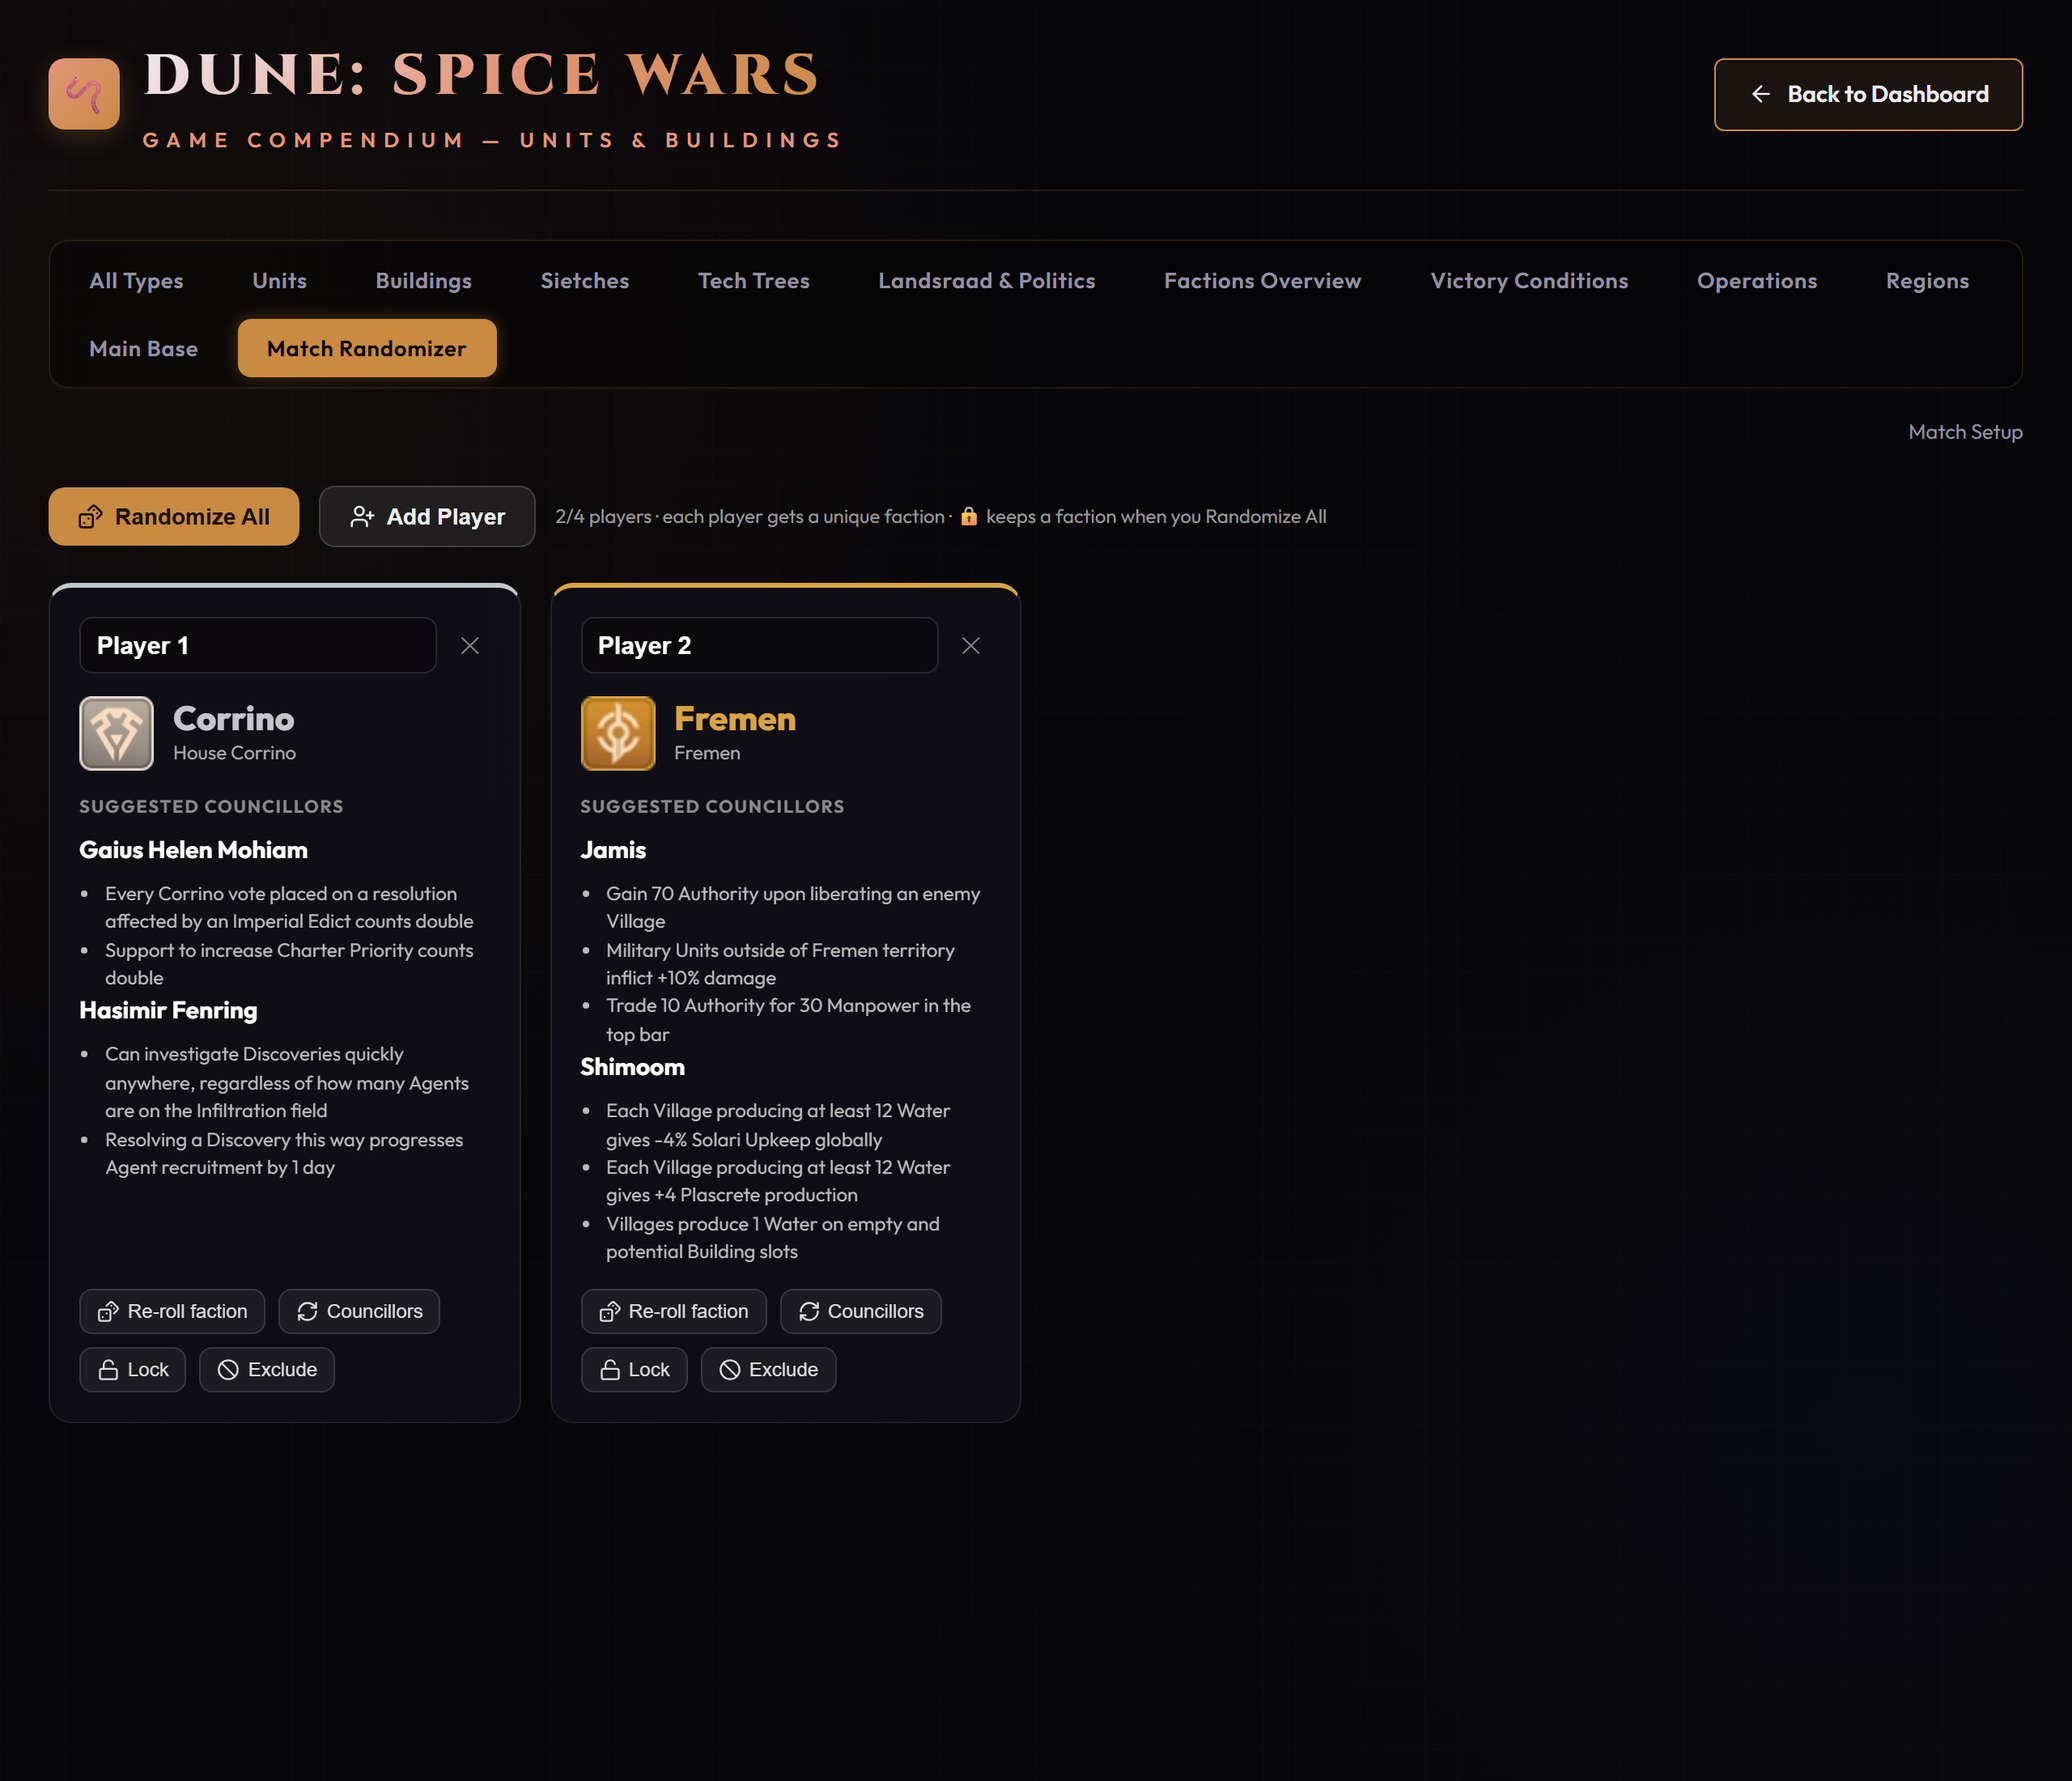
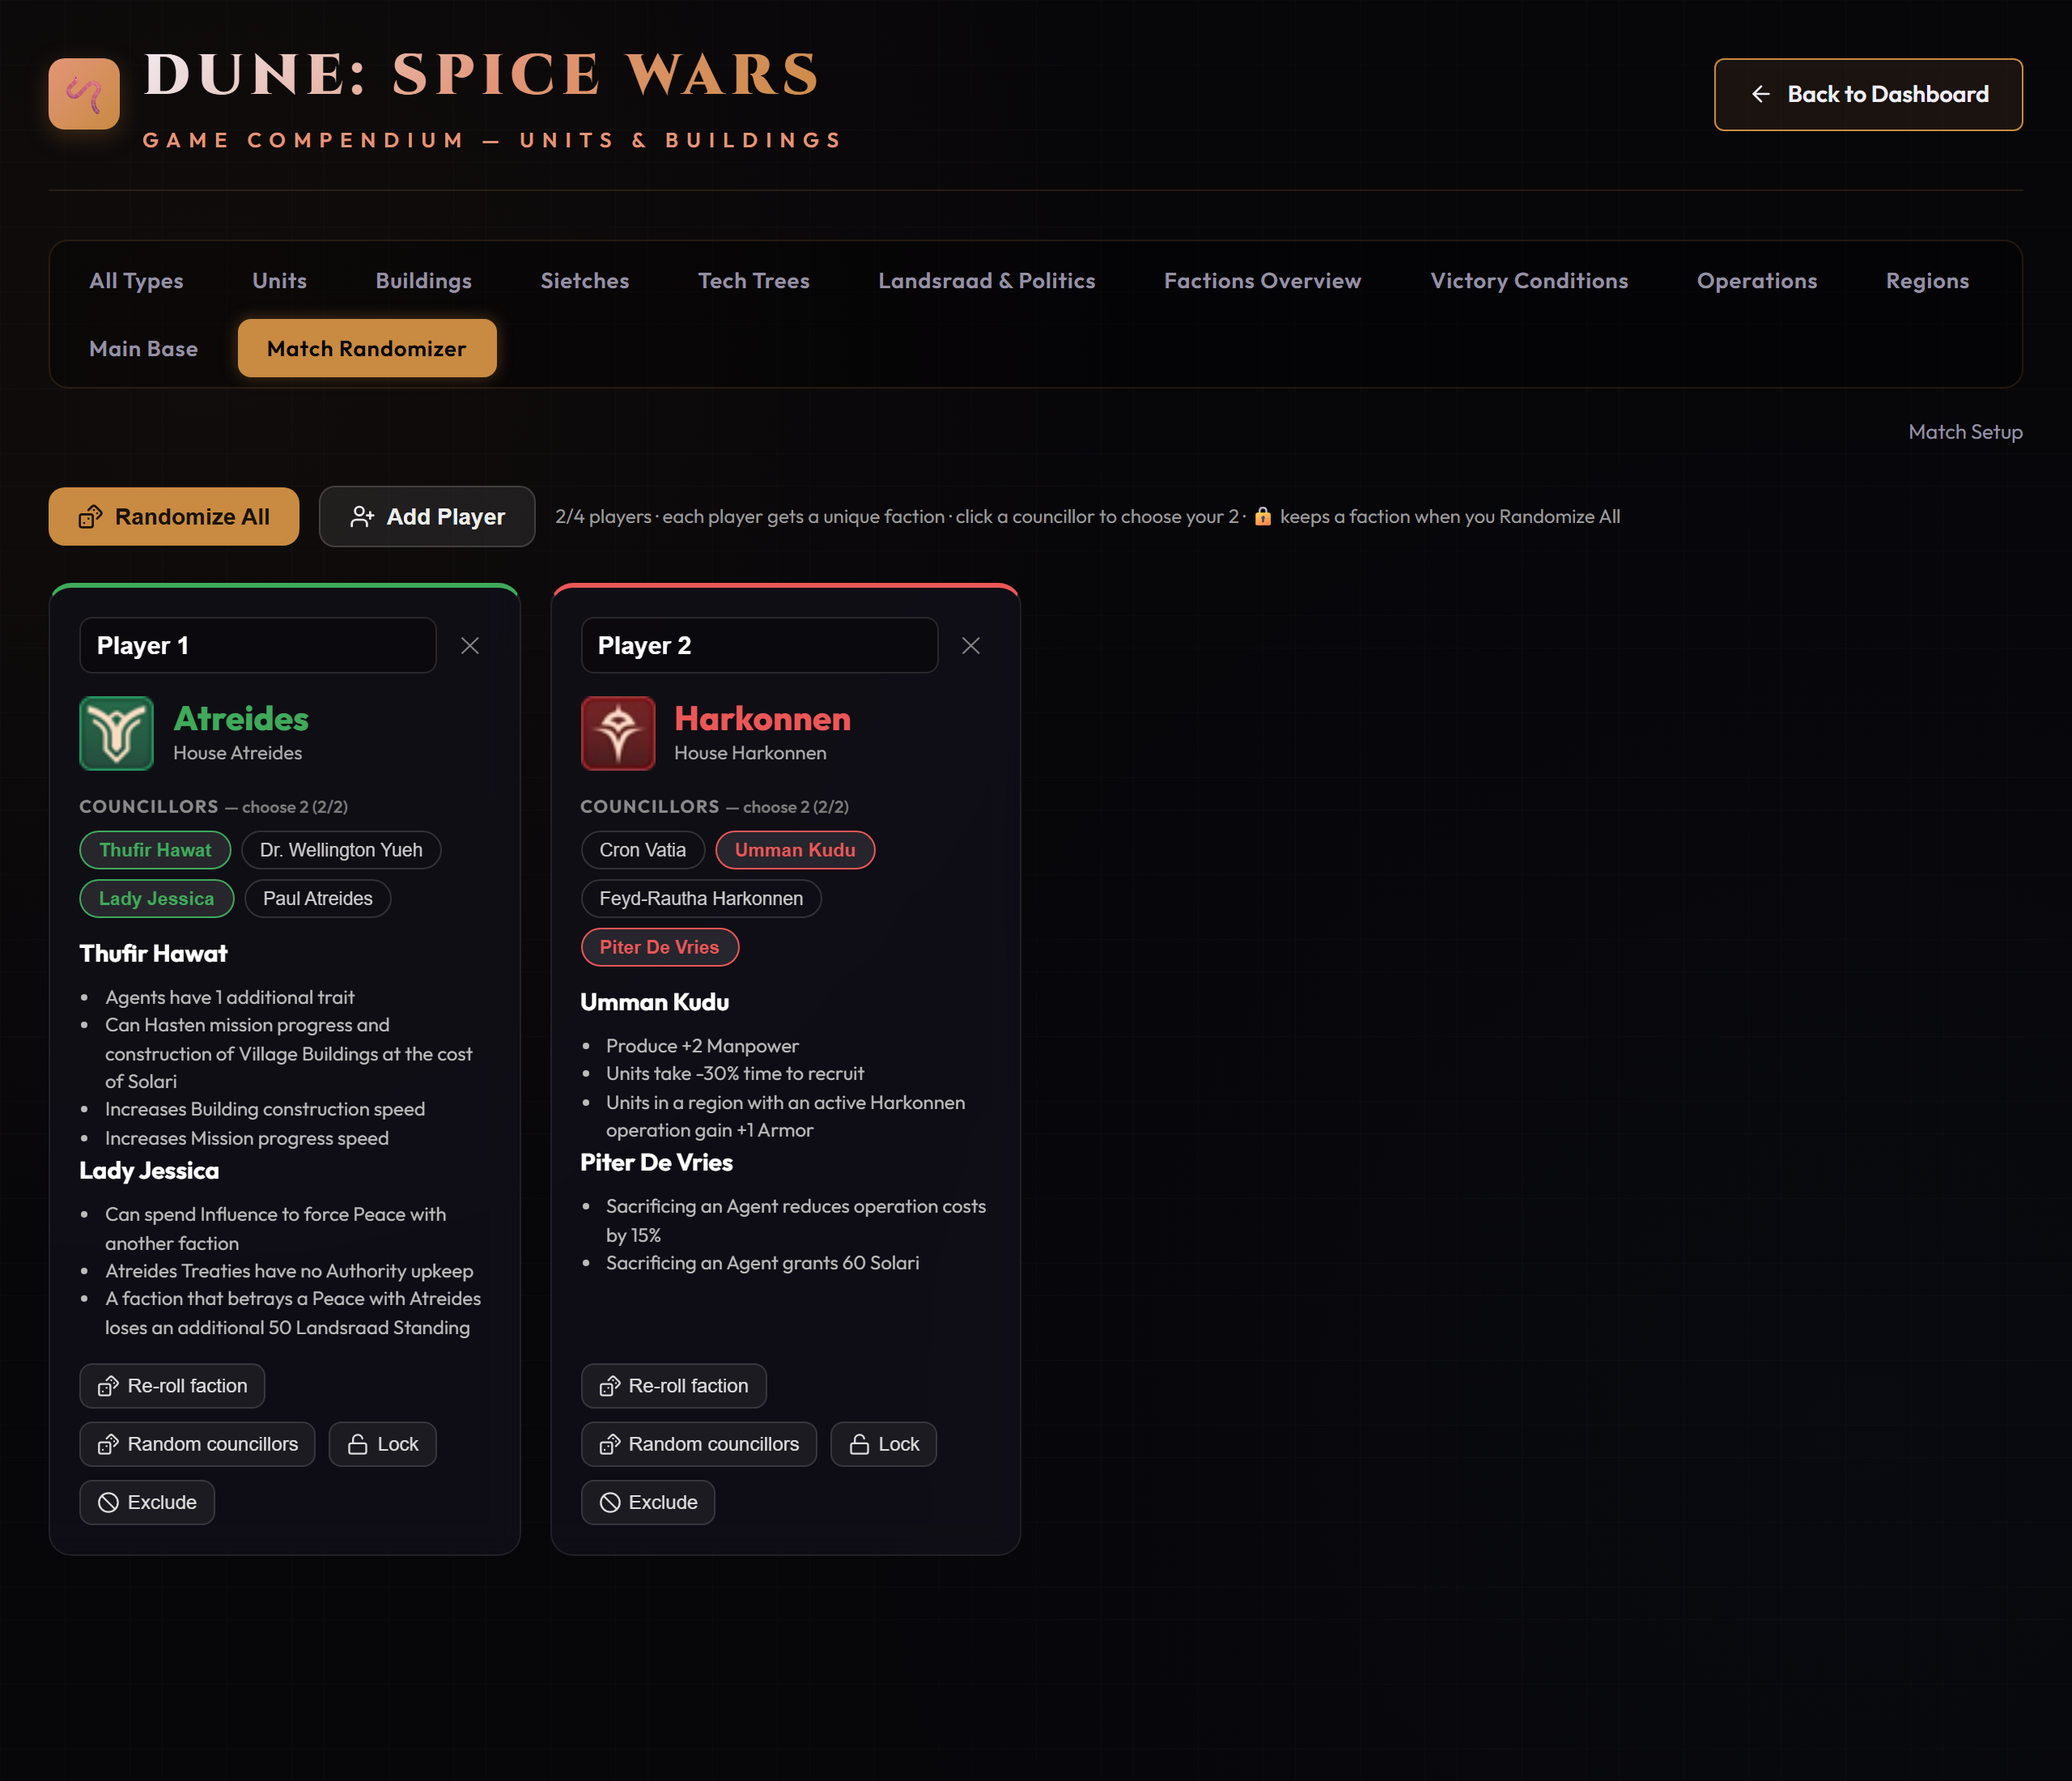
README: describe the new councillor picker + refresh randomizer shot
Follow-up to the Match Randomizer councillor-picker feature: update the
randomizer blurb (you now choose each player's two councillors, not just get a
random pair) and regenerate the screenshot to show the picker pills.

Changed region(s): [[0.0312, 0.3709, 0.2188, 0.8655], [0.2812, 0.3709, 0.4688, 0.8655], [0.4688, 0.2782, 0.7812, 0.3091]]

diff --git a/README.md b/README.md
@@ -213,8 +213,8 @@ construction gate.
 ### Match Randomizer
 
 Add up to four players and assign each a **unique** random faction. Re-roll any faction,
-get a random suggested councillor, and lock or exclude factions to fine-tune the draft —
-handy for spicing up a lobby.
+**pick each player's two councillors** from their faction's pool (or roll a random pair),
+and lock or exclude factions to fine-tune the draft — handy for spicing up a lobby.
 
 ![Match randomizer tab](docs/sec-compendium-randomizer.png)
 
